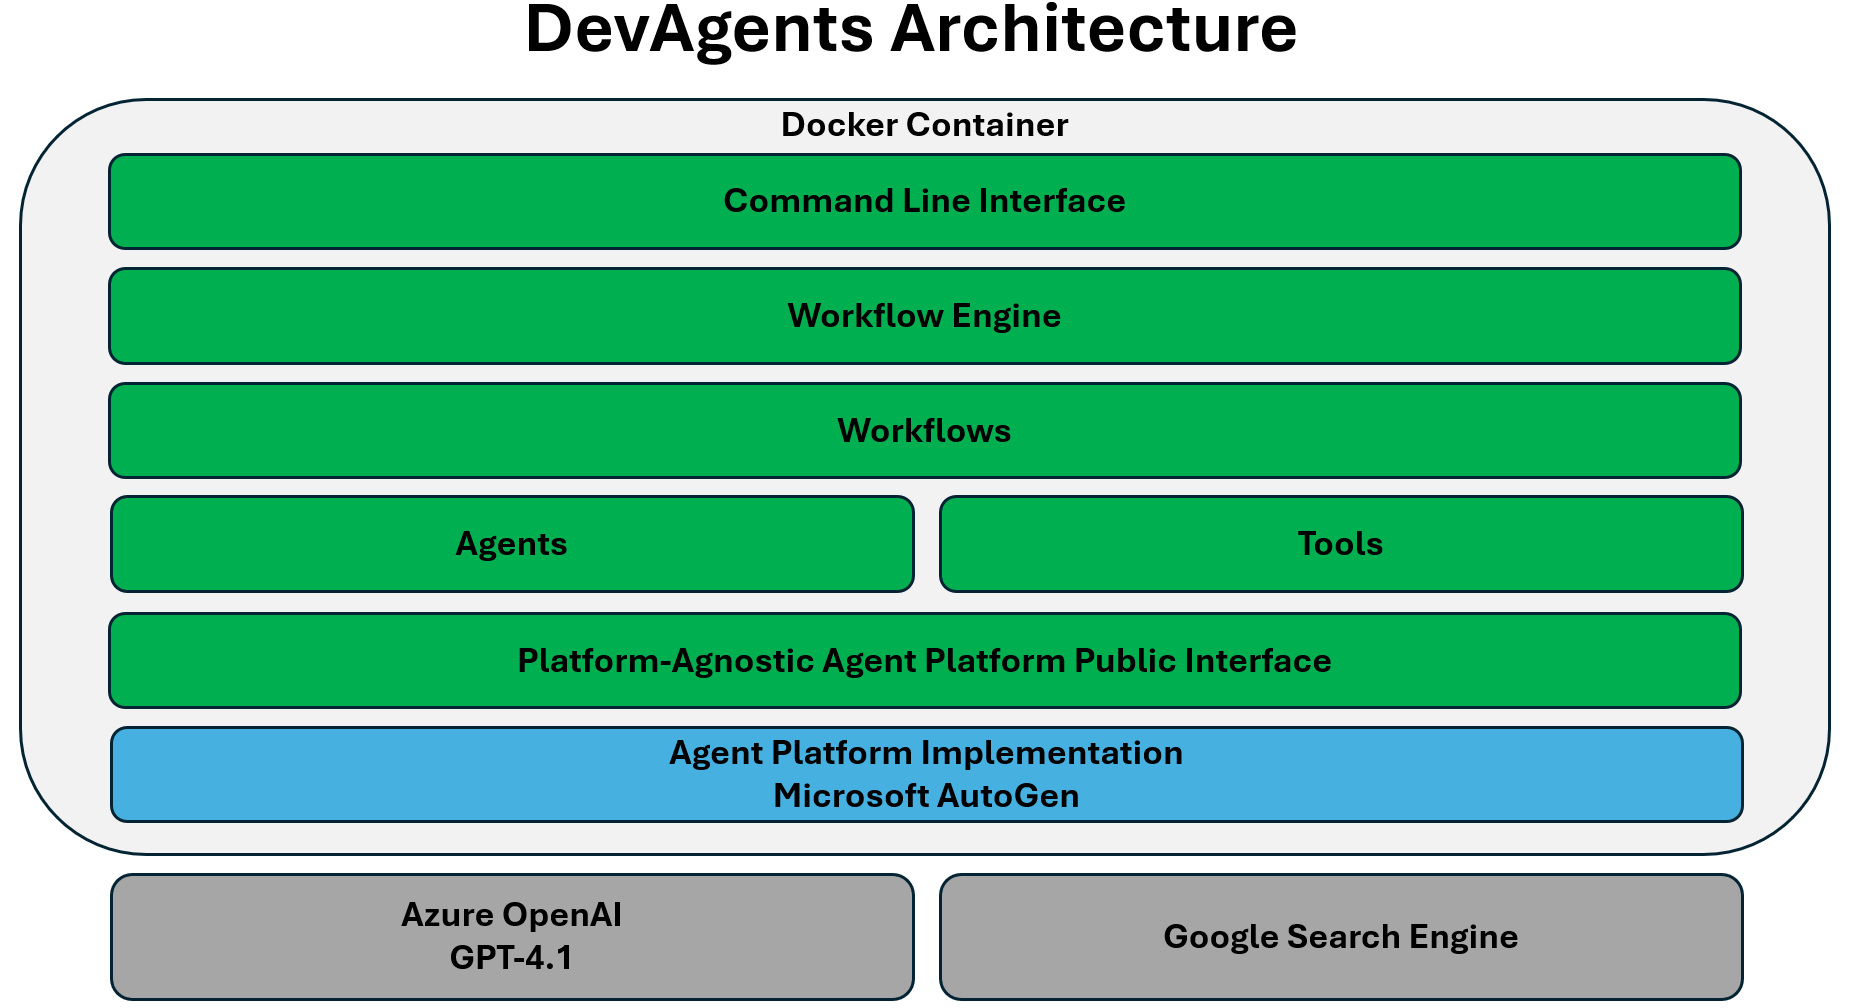
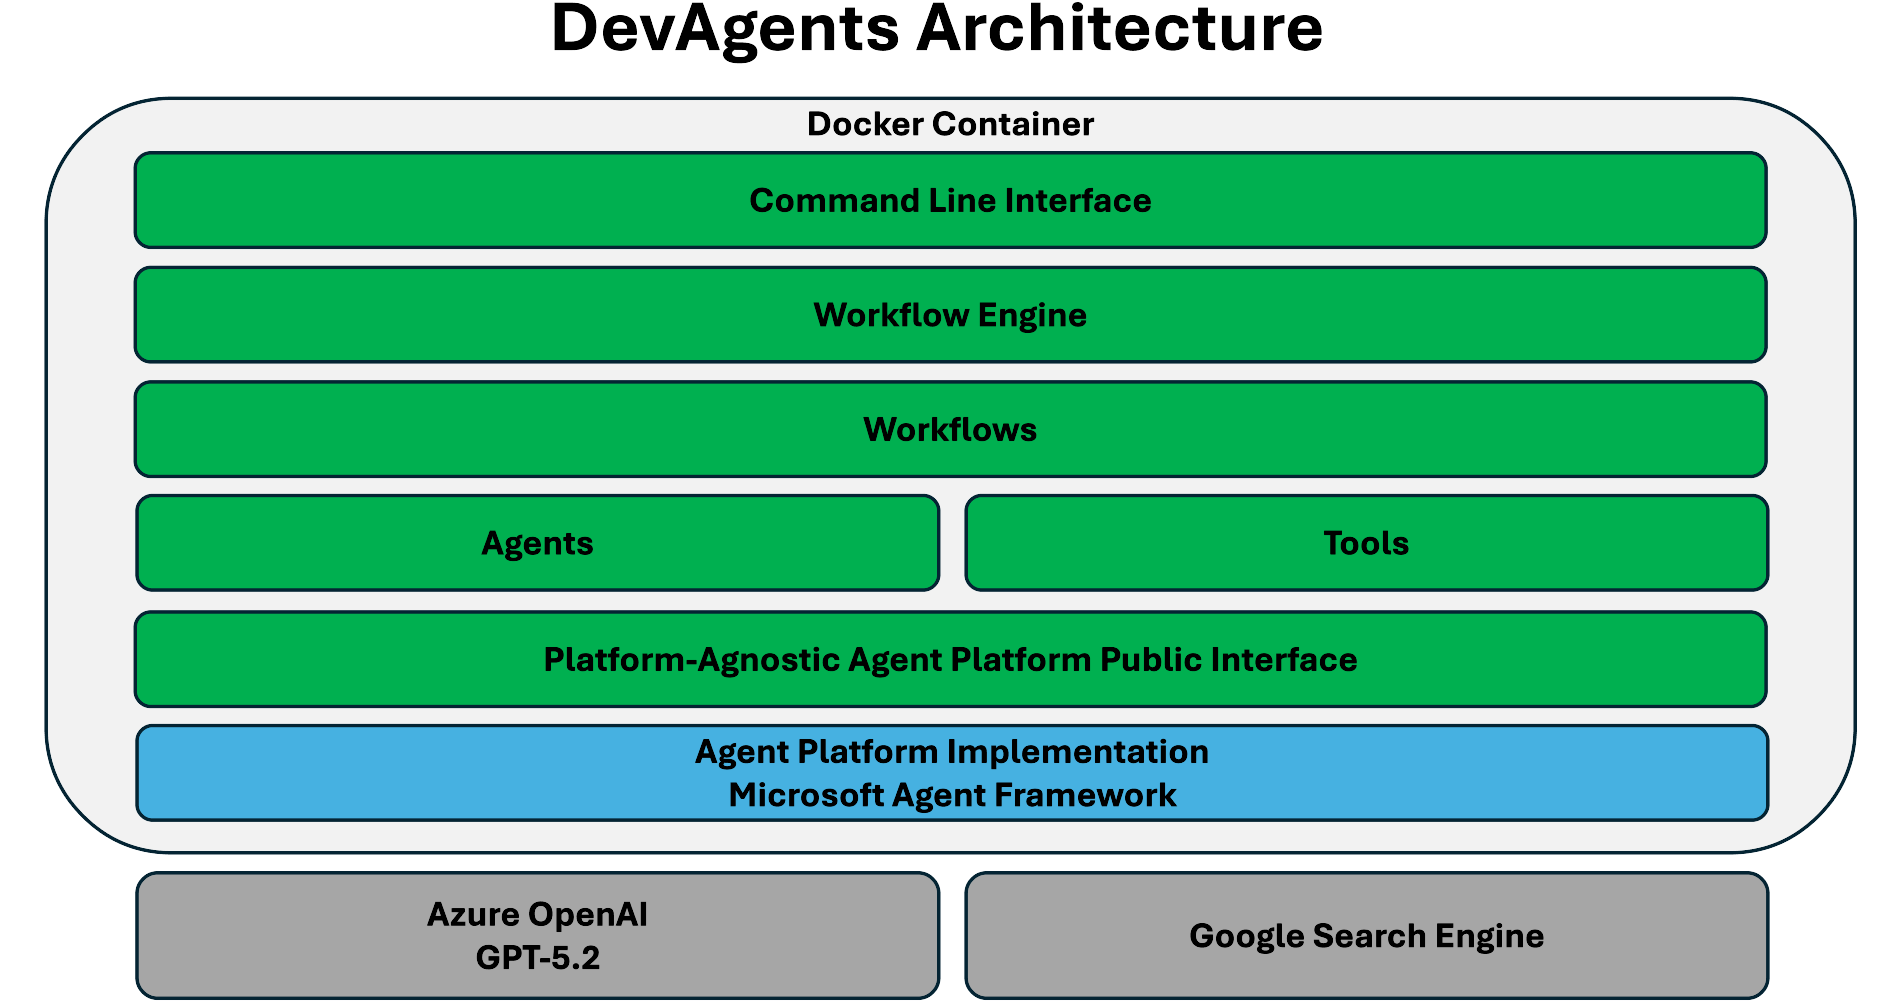
README.md and architecture diagram updated

diff --git a/README.md b/README.md
@@ -15,10 +15,7 @@ The workflows that are currently supported are listed in the table below.
 | FixBuild          | A workflow to ensure an application builds successfully. Build errors will be fixed if necessary. |
 | FixTests          | A workflow to ensure all tests pass successfully. Tests will be fixed if necessary. |
 
-DevAgents uses a platform-agnostic abstraction layer for agent orchestration, allowing for flexibility in the underlying AI framework. The current internal implementation uses [Microsoft AutoGen](https://github.com/microsoft/autogen), but the architecture enables swapping to alternative frameworks without impacting workflows or agents.
-
-> ℹ **Information**: The agent platform will be replaced by [Microsoft Agent Framework](https://github.com/microsoft/agent-framework) since AutoGen is no longer actively developed.
-
+DevAgents uses a platform-agnostic abstraction layer for agent orchestration, allowing for flexibility in the underlying AI framework. The current internal implementation uses [Microsoft Agent Framework](https://github.com/microsoft/agent-framework), but the architecture enables swapping to alternative frameworks without impacting workflows or agents.
 
 ## DevAgents Architecture
 
@@ -87,13 +84,13 @@ This project is licensed under the MIT License. See the `LICENSE` file for detai
 
 ## Remarks
 
-- DevAgents is currently tested with Azure OpenAI Service using GPT-4o and GPT-4.1.
+- DevAgents is currently tested with Azure OpenAI Service using GPT-5.2.
 - Always carefully review and test all code written by AI - this is valid for all tools, not just DevAgents.
 
 
 ## Further Information
 
-- [Local Development Setup](docs/local_dev_setup.md)
+- [Developer Guide](docs/developer-guide.md.md)
 
 
 ---
